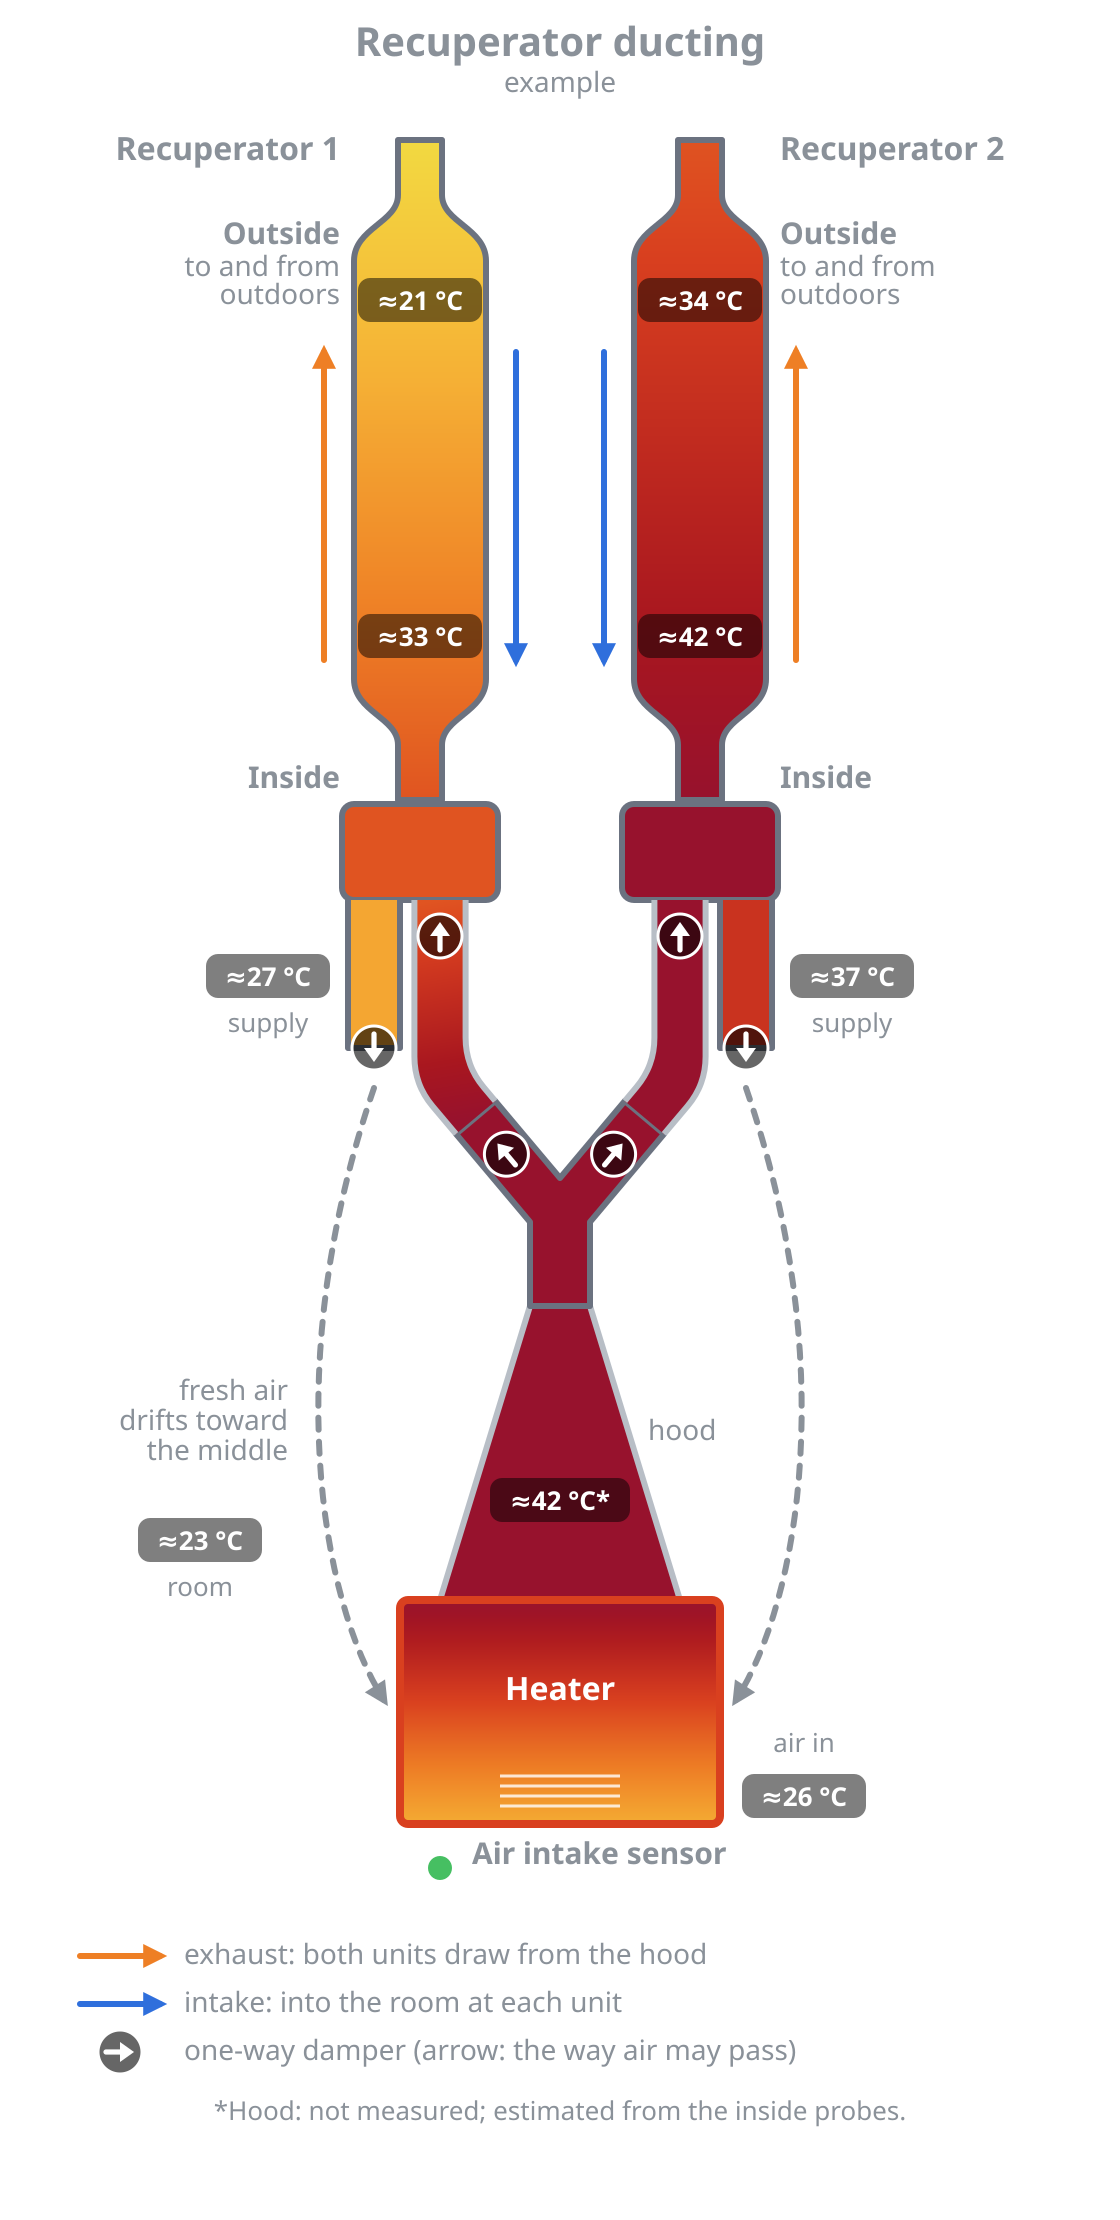
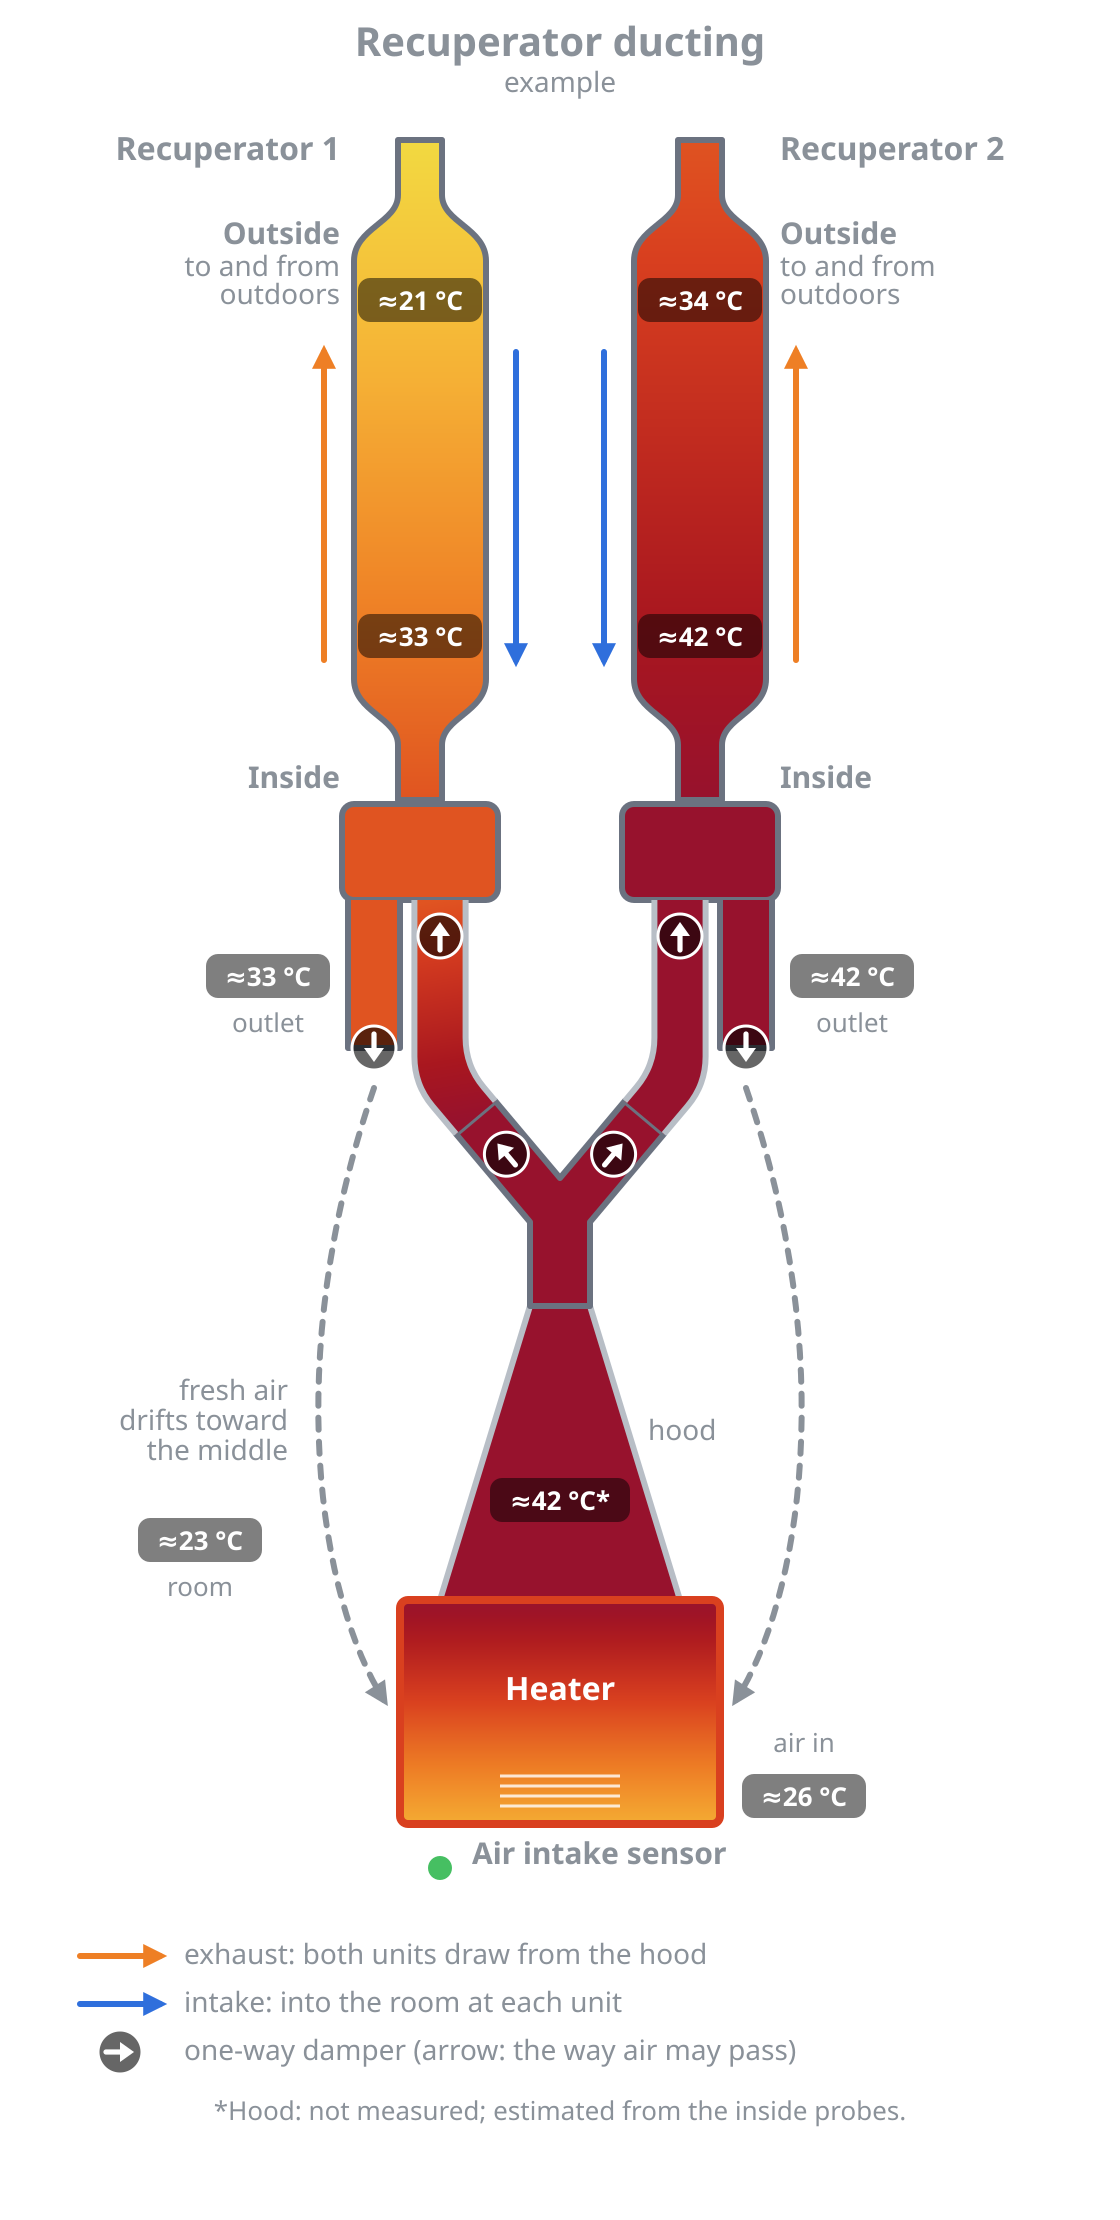
1.3.0: Outlets follow their wye (the cavity is behind the one-way damper)

diff --git a/basement-ducting-card.js b/basement-ducting-card.js
@@ -7,7 +7,7 @@
 //
 // The same render function also runs in Node (tools/render.mjs) to make a static picture.
 
-export const VERSION = "1.2.0";
+export const VERSION = "1.3.0";
 
 // The temperature scale (°C, colour) of the recuperator integration's diagram, after the U.S. National Weather
 // Service temperature maps.
@@ -120,9 +120,8 @@ export function normalise(config) {
 // What colour and text every part gets, from the readings (°C) and phases
 
 /**
- * r: { left: {inside, outside, phase, wye, outlet, supply}, right: {...}, hood, hood_wye, heater_intake, room }
- *    (supply: only for typical pictures, the supply air to show in an outlet)
- * mem: remembered readings from earlier updates ({left: {exIn, ex, sup}, right: {...}}), updated in place
+ * r: { left: {inside, outside, phase, wye, outlet}, right: {...}, hood, hood_wye, heater_intake, room, hood_estimate }
+ * mem: remembered readings from earlier updates ({left: {exIn, ex}, right: {...}}), updated in place
  * opts: { typical: false, unit: "°C" | "°F" }
  */
 export function paint(cfg, r, mem = { left: {}, right: {} }, opts = {}) {
@@ -140,7 +139,6 @@ export function paint(cfg, r, mem = { left: {}, right: {} }, opts = {}) {
     const inn = !typical && u.phase === "intake";
     const wye = known(u.wye, u.inside);
     if (!typical && ex && has(u.inside)) { m.exIn = u.inside; m.ex = wye; }
-    if (!typical && inn && has(wye)) m.sup = known(u.outlet, wye);
     state[s] = { u, m, ex, inn, wye };
   }
   // The hood: its own sensor, else the hood wye's, else estimated: from the cycle peaks (r.hood_estimate, see
@@ -163,21 +161,14 @@ export function paint(cfg, r, mem = { left: {}, right: {} }, opts = {}) {
     // A hose carries hood air while its unit exhausts; otherwise its dampers are shut and it keeps the last
     // exhaust reading (or the hood's until there is one).
     p.grads[`g-hose-${k}`] = [hoodWye, ex ? wye : known(m.ex, hoodWye)];
-    // An outlet carries supply air while its unit takes air in; otherwise it shows its own sensor or the room.
-    if (typical) {
-      p.grads[`g-out-${k}`] = [known(u.supply, wye), known(u.outlet, u.supply, wye)];
-    } else if (inn) {
-      p.grads[`g-out-${k}`] = [wye, known(u.outlet, wye)];
-    } else {
-      const idle = known(u.outlet, room, m.sup);
-      p.grads[`g-out-${k}`] = [idle, idle];
-    }
+    // An outlet's cavity sits behind its one-way damper, open to the unit's wye: it has the wye's air whatever
+    // the phase, down to its own sensor's reading at the damper if it has one.
+    p.grads[`g-out-${k}`] = [wye, known(u.outlet, wye)];
 
     p.texts[`t-${k}-out`] = show(u.outside);
     p.texts[`t-${k}-in`] = show(u.inside);
     p.texts[`t-${k}-wye`] = show(u.wye);
-    p.texts[`t-${k}-sup`] = typical ? show(known(u.outlet, u.supply, wye))
-      : has(u.outlet) ? show(u.outlet) : inn ? show(wye) : "idle";
+    p.texts[`t-${k}-sup`] = show(known(u.outlet, wye));
 
     p.active[`a-ex-${k}`] = ex;
     p.active[`a-in-${k}`] = typical || inn;
@@ -304,7 +295,7 @@ export function render(cfg, p, { live = false, uid = "s" } = {}) {
   o.push(`<path d="M ${LX - 36},450 L ${LX - 36},524 L ${LX - 10},524 L ${LX - 10},450" fill="url(#${id("g-out-l")})" stroke="${OUTLINE}" stroke-width="3" stroke-linejoin="round"/>`);
   o.push(`<path d="M ${RX + 36},450 L ${RX + 36},524 L ${RX + 10},524 L ${RX + 10},450" fill="url(#${id("g-out-r")})" stroke="${OUTLINE}" stroke-width="3" stroke-linejoin="round"/>`);
   o.push(badge(LX - 76, 488, "t-l-sup"), badge(RX + 76, 488, "t-r-sup"));
-  o.push(label(LX - 76, 516, cfg.left.outlet ? "outlet" : "supply", 11), label(RX + 76, 516, cfg.right.outlet ? "outlet" : "supply", 11));
+  o.push(label(LX - 76, 516, "outlet", 11), label(RX + 76, 516, "outlet", 11));
 
   // The hood and its wye.
   const wye = `M ${CX - 15},${AY + 93} L ${CX - 15},${AY + 51} L ${OUTER_L[0].toFixed(1)},${OUTER_L[1].toFixed(1)} L ${INNER_L[0].toFixed(1)},${INNER_L[1].toFixed(1)} ` +
@@ -367,7 +358,6 @@ export function render(cfg, p, { live = false, uid = "s" } = {}) {
   o.push(damper(60, ly + 48, 0) + label(92, ly + 52, "one-way damper (arrow: the way air may pass)", 12, "start"));
   const notes = cfg.notes ?? [
     cfg.hose_note,
-    live ? "Outlets show the supply air while that unit takes air in." : "",
     (live ? !cfg.hood && !cfg.hood_wye : p.estimated) ? "*Hood: not measured; estimated from the inside probes." : "",
   ];
   let ny = 1060;
@@ -384,7 +374,7 @@ export function render(cfg, p, { live = false, uid = "s" } = {}) {
 export function renderStatic(config, readings, { unit = "°C" } = {}) {
   const cfg = normalise(config);
   const r = { left: {}, right: {}, ...readings };
-  for (const s of SIDES) for (const k of [...SIDE_SLOTS, "supply"]) r[s][k] = r[s][k] ?? null;
+  for (const s of SIDES) for (const k of SIDE_SLOTS) r[s][k] = r[s][k] ?? null;
   for (const k of [...SHARED_SLOTS, "room"]) r[k] = r[k] ?? null;
   return render(cfg, paint(cfg, r, undefined, { typical: true, unit }), { live: false, uid: "s" });
 }
@@ -781,12 +771,11 @@ class BasementDuctingCard extends BaseElement {
       r[s] = { inside: at(k.inside), outside: at(k.outside), wye: at(k.wye), outlet: at(k.outlet), phase: k.phase ? valueAt(rp.series[k.phase], t) : null };
       mem[s] = {};
       const ph = rp.series[k.phase] || [];
-      // The most recent exhaust and intake before now: read the sensors just before each one ended.
-      for (let i = indexAt(ph, t); i >= 0 && (mem[s].ex === undefined || mem[s].sup === undefined); i--) {
+      // The most recent exhaust before now: read the sensors just before it ended.
+      for (let i = indexAt(ph, t); i >= 0 && mem[s].ex === undefined; i--) {
         const endAt = Math.min(t, i + 1 < ph.length ? ph[i + 1][0] : t) - 1000;
         const v = (e) => (e ? celsius(valueAt(rp.series[e], endAt), rp.units[e]) : null);
         if (ph[i][1] === "exhaust" && mem[s].ex === undefined) { mem[s].exIn = v(k.inside); mem[s].ex = known(v(k.wye), mem[s].exIn); }
-        if (ph[i][1] === "intake" && mem[s].sup === undefined) mem[s].sup = known(v(k.outlet), v(k.wye), v(k.inside));
       }
     }
     for (const key of SHARED_SLOTS) r[key] = at(c[key]);

diff --git a/README.md b/README.md
@@ -70,7 +70,7 @@ each outlet one (at its end), as drawn.
 | `hood` | | Optional sensor in the hood. Without it the hood shows the hood wye's sensor, or else an estimate (marked `*`) from the breathing cycles; see [The hood without a sensor](#the-hood-without-a-sensor). |
 | `hood_wye` | | Optional sensor in the middle of the hood's wye. The hood then runs from `hood` at the bottom to this at the top, and the hoses start from it. |
 | `heater_intake` | | Optional sensor at the heater's air intake: the bottom of the heater's gradient (the top is the hood). Without it the room temperature is used. |
-| `room` | | Optional room sensor, or a list of them (averaged). Colours an idle outlet without its own sensor and the bottom of the heater when there is no `heater_intake`, and gets its own badge. |
+| `room` | | Optional room sensor, or a list of them (averaged). Colours the bottom of the heater when there is no `heater_intake`, and gets its own badge. |
 | `heater` | | Labels: `name` (default `Heater`; `\n` for a new line), `note` (under the name), `intake_name` (default `Heater air intake`) and `intake_detail`: the label of the `heater_intake` sensor, shown when that is set. |
 | `hose_note` | | A line of text at the bottom. |
 | `notes` | | A line or a list of lines that replaces the notes at the bottom: `hose_note` and the automatic ones (including the explanation of `*`). Three lines fit. |
@@ -85,7 +85,7 @@ Each unit (`left`, `right`):
 | `outside` | Probe at the outdoor end of the core. |
 | `phase` | Entity with the state `exhaust` or `intake` (e.g. the Recuperator integration's Phase sensor; a `select` or `input_select` works too). Any other state counts as idle. |
 | `wye` | Optional sensor in the middle of the unit's wye. The wye then runs from `inside` (top) to it (bottom), and the hose ends at it. |
-| `outlet` | Optional sensor in the room outlet. While the unit takes air in, the outlet runs from the wye (top) to it (bottom); otherwise it shows this sensor. Its reading is in the outlet's badge (labelled "outlet"); without it the badge ("supply") shows the wye's reading while the unit takes air in and "idle" otherwise. |
+| `outlet` | Optional sensor in the room outlet, behind its one-way damper. The outlet then runs from the wye (top) to it (bottom), and its badge shows it; without it the outlet and its badge follow the wye. |
 
 ## Replay
 
@@ -97,8 +97,8 @@ the speed or drag the timeline at any time; the time shown is at the top of the 
 
 The history comes straight from Home Assistant (`history/history_during_period`), so it reaches back only as far as
 the recorder keeps it (10 days by default). Long periods of sensors that report every few seconds take a moment to
-load. For an idle hose or outlet, the replay uses each unit's last exhaust and intake before the moment shown, read
-from the history, so jumping around the timeline shows the same as playing through it.
+load. For an idle hose, the replay uses its unit's last exhaust before the moment shown, read from the history, so
+jumping around the timeline shows the same as playing through it.
 
 | Option | Default | What |
 | --- | --- | --- |
@@ -113,7 +113,7 @@ from the history, so jumping around the timeline shows the same as playing throu
 | Pipe (the core) | `outside` at the top to `inside` at the bottom. |
 | Unit's wye | `inside` to `wye` (or `inside` alone). |
 | Hose | Hood wye (or hood) at the hood end. The unit end: while the unit exhausts, its `wye` (or `inside`); otherwise the dampers are shut and the hose keeps that unit's last exhaust reading (the hood's until there is one). |
-| Outlet | While the unit takes air in: the wye's temperature (`wye`, or `inside`) to `outlet` (or the wye's alone). Otherwise `outlet`, or the room, or the last supply reading. |
+| Outlet | The same as the bottom of the unit's wye (`wye`, or `inside`) in every phase: the outlet's cavity sits behind its one-way damper, open to the wye. With an `outlet` sensor it runs from the wye down to that reading. |
 | Hood | `hood` to `hood_wye`; with neither, the estimate below. |
 | Hood wye | `hood_wye`, else as the hood. |
 | Heater | `heater_intake` (or the room) at the bottom to the hood at the top. |
@@ -146,7 +146,7 @@ node tools/render.mjs docs/example/config.json docs/example/readings.json exampl
 ```
 
 `config.json` holds the card's options (JSON); `readings.json` the temperatures in °C
-(`left`/`right`: `inside`, `outside`, `wye`, `outlet`, and `supply` for the outlet; and `hood`, `hood_wye`,
+(`left`/`right`: `inside`, `outside`, `wye`, `outlet`; and `hood`, `hood_wye`,
 `heater_intake`, `room`). A reading gets its number only when its option is set in `config.json` (any entity id
 will do there); without it, it still colours the picture. Arrows are drawn as if both units were running; nothing
 moves.
